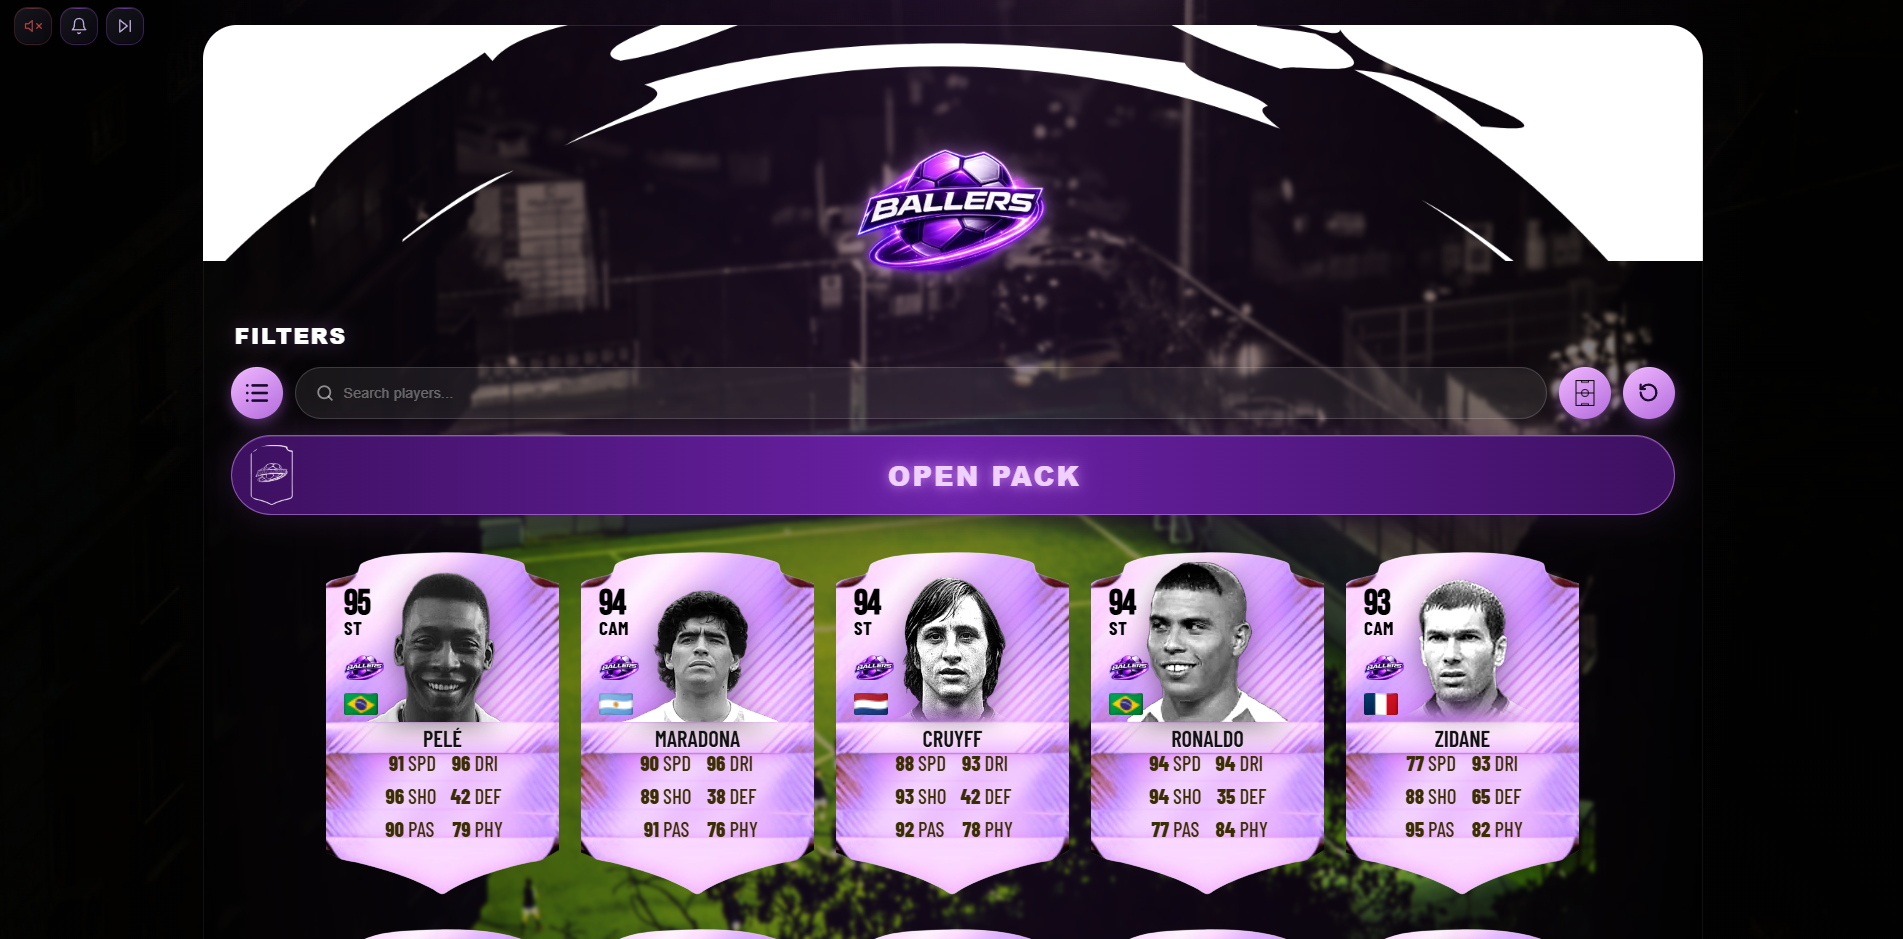
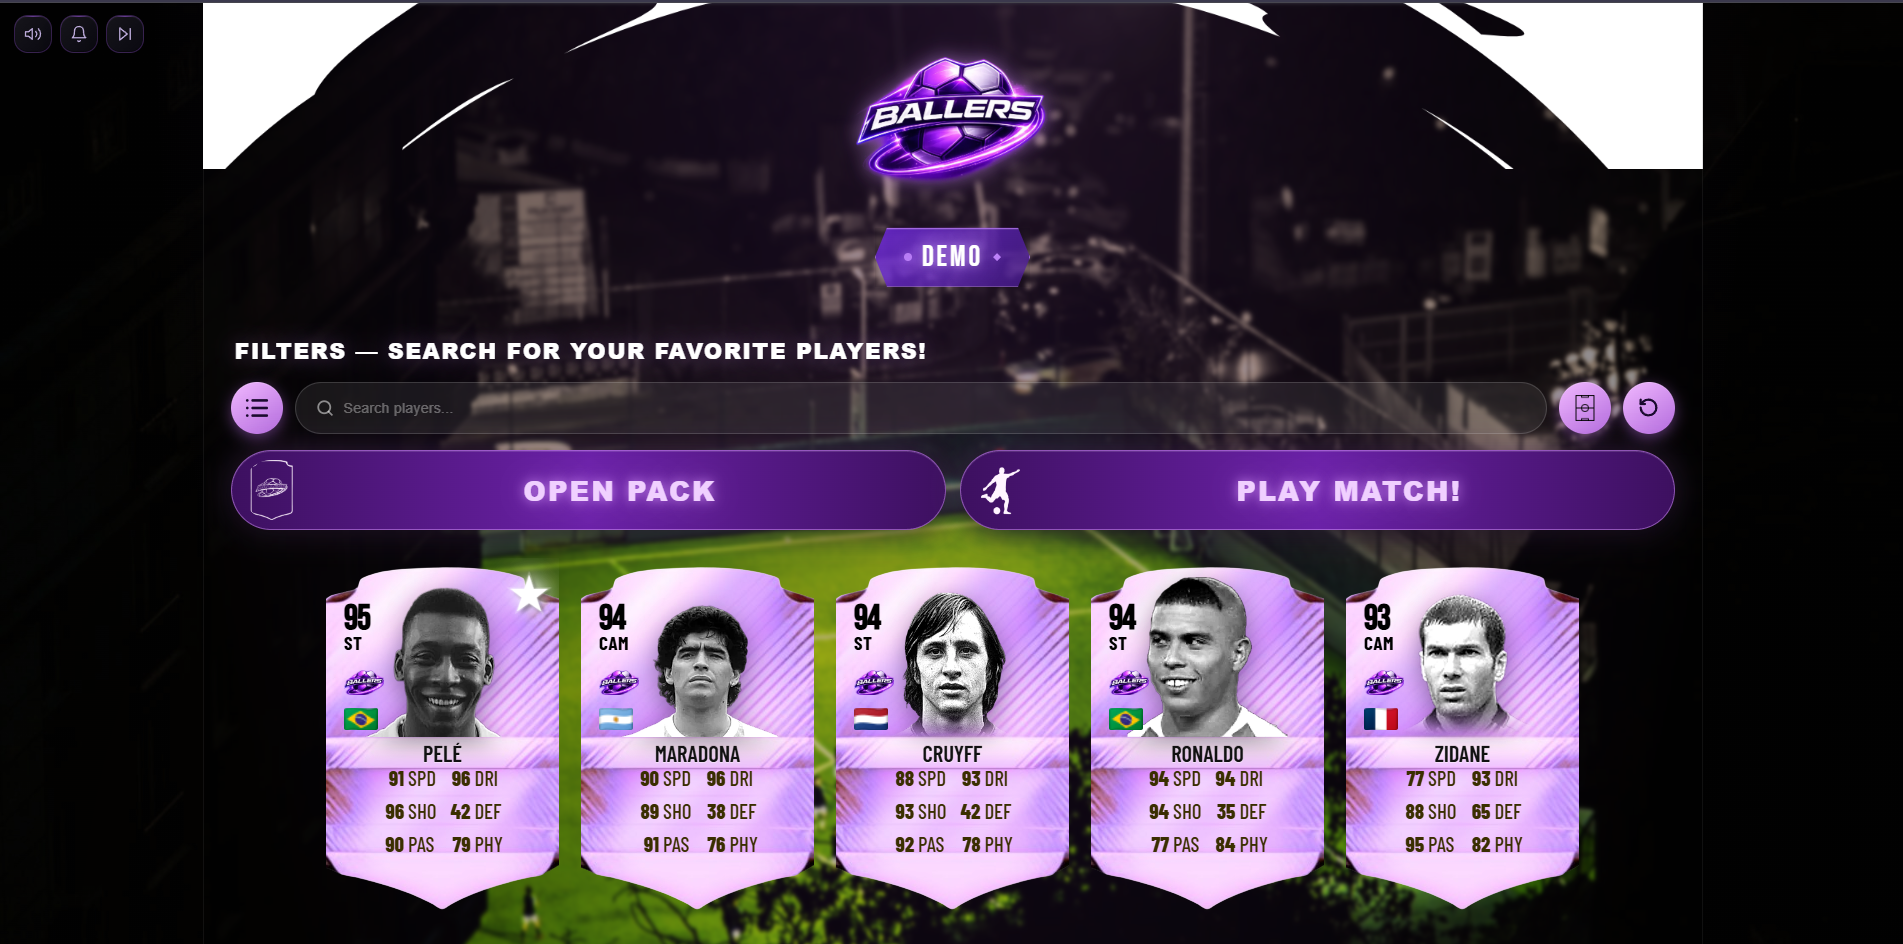
Update README.md

diff --git a/README.md b/README.md
@@ -114,10 +114,17 @@ npm run dev
   <img src="./media/lineup.png" width="49%">
 </div>
 
-### Formations & Custom Players
+### Custom Players & Player Management
 <div align="center">
-  <img src="./media/formations.png" width="49%">
-  <img src="./media/createplayer.png" width="49%">
+  <img src="./media/createplayer.png" width="32%">
+  <img src="./media/createplayer2.png" width="32%">
+  <img src="./media/createplayer3.png" width="32%">
+</div>
+
+### Filters & Player Selection
+<div align="center">
+  <img src="./media/filtermodal.png" width="49%">
+  <img src="./media/playermodalLineup.png" width="49%">
 </div>
 
 ### Pre-Match & Match
